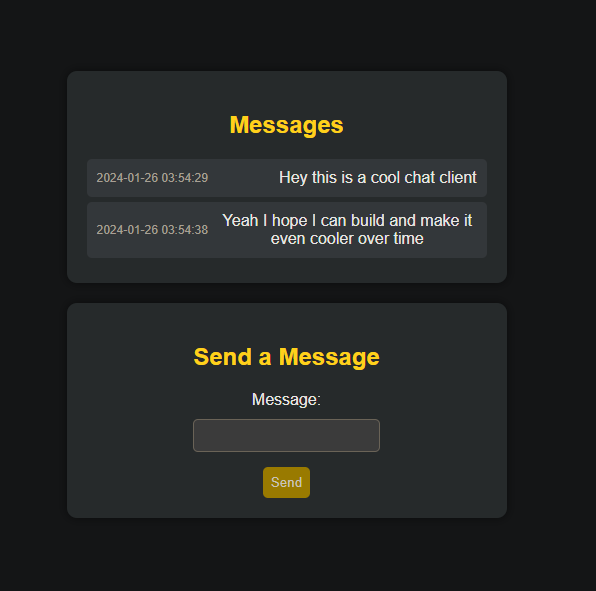
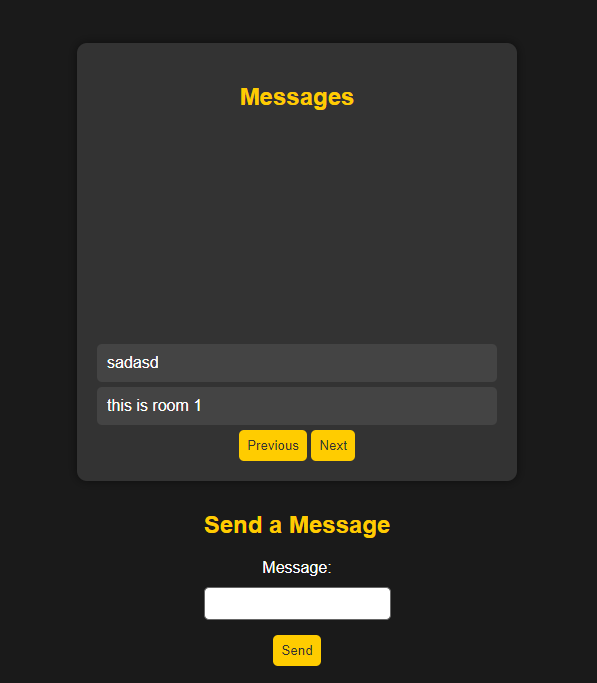
Added 2nd image and updated first image with new rooms feature

diff --git a/README.md b/README.md
@@ -3,6 +3,7 @@
 ## Demo
 
 ![Alt text](/docs/images/image1.png)
+![Alt text](/docs/images/image2.png)
 
 ## Description
 
@@ -16,6 +17,7 @@ To use this application, follow these steps:
 1. Run the compiled executable.
 
 ## Dependencies:
+
 - [boost/beast](https://github.com/boostorg/beast): HTTP and WebSocket built on [Boost.Asio](https://github.com/boostorg/asio) in C++11.
 
 - [nlohmann/json](https://github.com/nlohmann/json): JSON library for C++.
